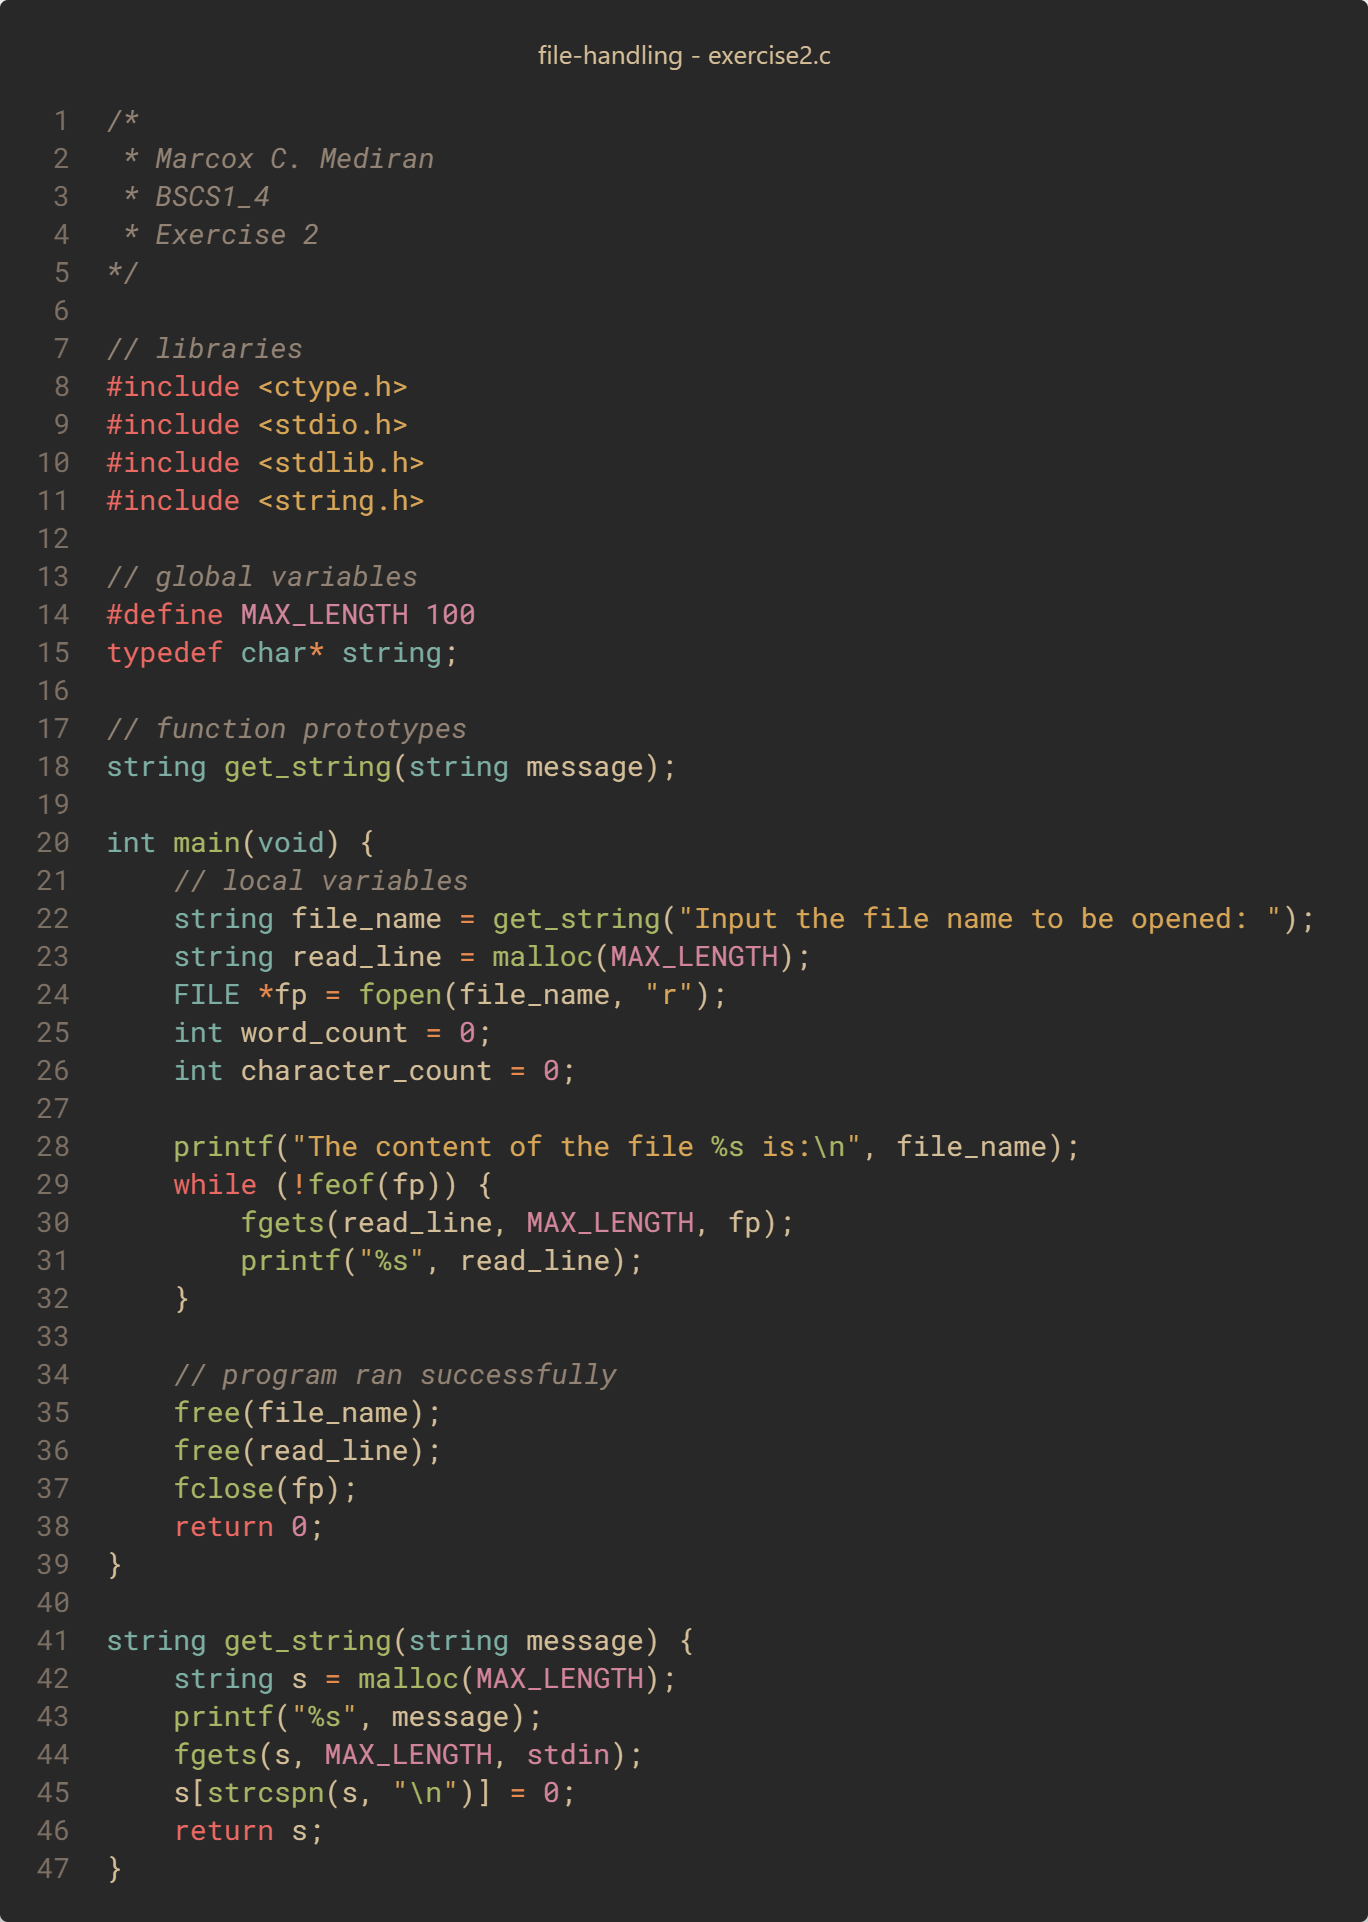
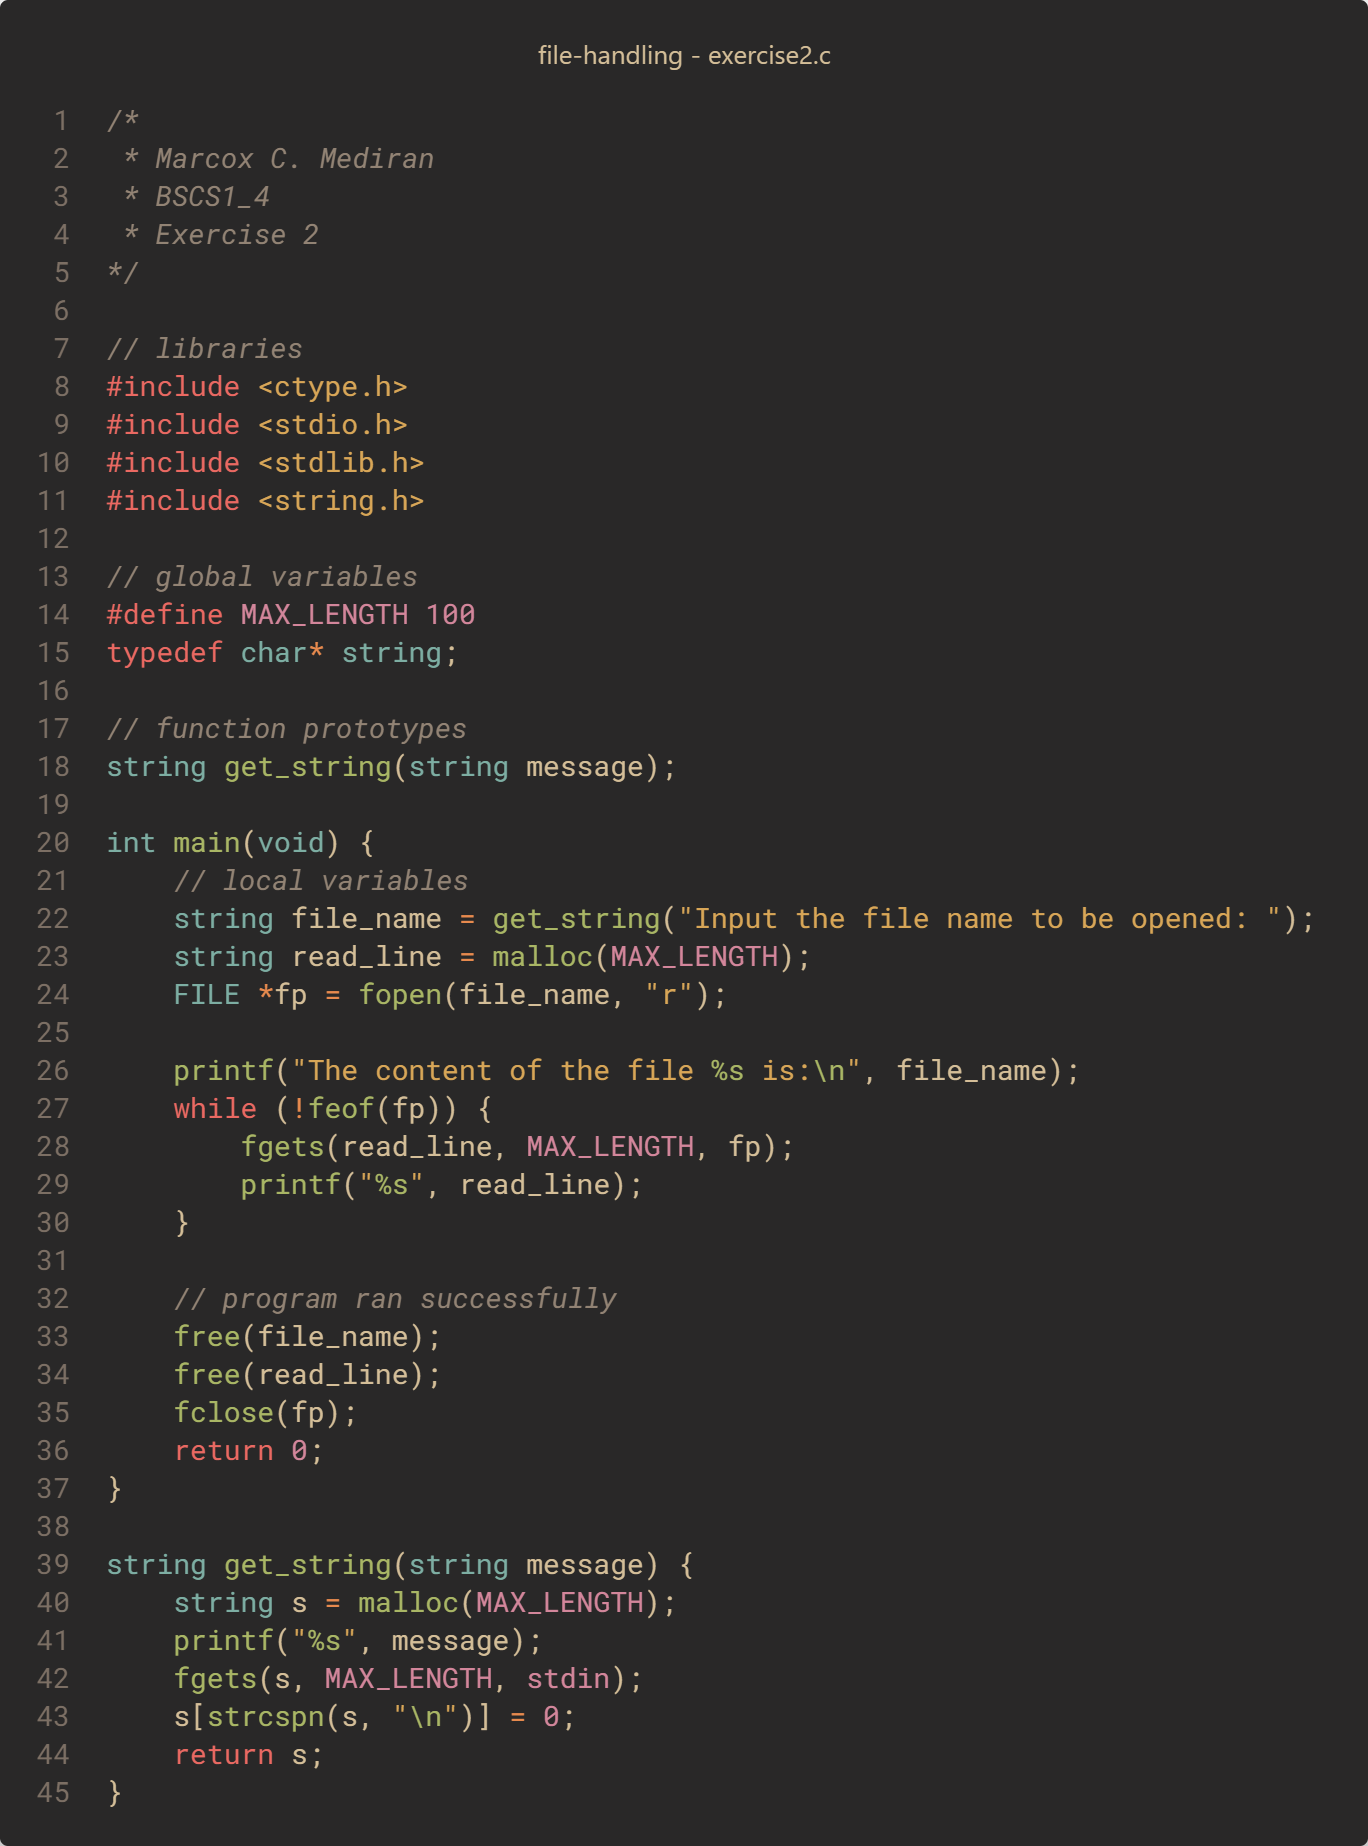
removed unused variables

diff --git a/comprog/1-2/file-handling/exercise2.c b/comprog/1-2/file-handling/exercise2.c
@@ -22,8 +22,6 @@ int main(void) {
     string file_name = get_string("Input the file name to be opened: ");
     string read_line = malloc(MAX_LENGTH);
     FILE *fp = fopen(file_name, "r");
-    int word_count = 0;
-    int character_count = 0;
 
     printf("The content of the file %s is:\n", file_name);
     while (!feof(fp)) {
